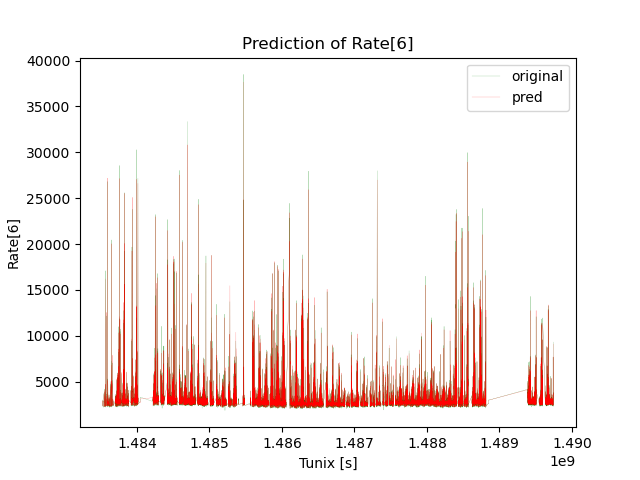
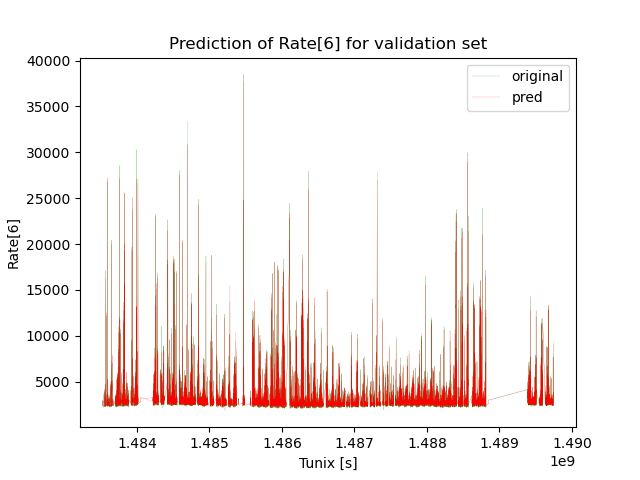
reran visualizer

Changed region(s): [[0.25, 0.0625, 0.75, 0.125]]

diff --git a/src/visualizer.py b/src/visualizer.py
@@ -213,7 +213,7 @@ def plot_val_prediction_target(dataset_val,
             '-r', linewidth=0.1, label="pred")
     ax.set_xlabel("Tunix [s]")
     ax.set_ylabel(f"{target_name.capitalize()}")  # Nb. photons per second: [Hz] if rate[i]
-    ax.set_title(f"Prediction of {target_name.capitalize()}")
+    ax.set_title(f"Prediction of {target_name.capitalize()} for validation set")
     ax.legend()
     if save_path: plt.savefig(save_path)
 
